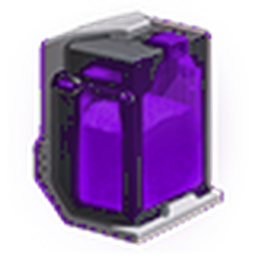
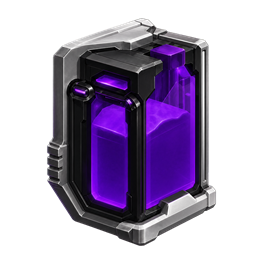
Release 0.1.1

diff --git a/src/Plugin.cs b/src/Plugin.cs
@@ -20,7 +20,7 @@ namespace ProliferatorMk4
     {
         public const string ModGuid = "com.komonad.dsp.proliferatormk4";
         public const string ModName = "Proliferator Mk.IV";
-        public const string Version = "0.1.0";
+        public const string Version = "0.1.1";
 
         private const int DefaultItemProliferatorMk4 = 9441;
         private const int DefaultRecipeProliferatorMk4 = 9441;
@@ -425,10 +425,10 @@ namespace ProliferatorMk4
 
             IconToolNew.IconDesc iconDesc = new IconToolNew.IconDesc
             {
-                faceColor = new Color(0.30f, 0.08f, 0.46f, 1f),
-                sideColor = new Color(0.09f, 0.035f, 0.16f, 1f),
-                faceEmission = new Color(0.07f, 0.01f, 0.14f, 1f),
-                sideEmission = new Color(0.015f, 0f, 0.035f, 1f),
+                faceColor = new Color(0.56f, 0.17f, 0.70f, 1f),
+                sideColor = new Color(0.23f, 0.055f, 0.34f, 1f),
+                faceEmission = new Color(0.18f, 0.035f, 0.25f, 1f),
+                sideEmission = new Color(0.055f, 0.005f, 0.095f, 1f),
                 iconEmission = Color.clear,
                 metallic = 0.92f,
                 smoothness = 0.62f,
@@ -851,8 +851,8 @@ namespace ProliferatorMk4
         private static void RewriteMk4SpraycoaterVisualState(CargoTraffic traffic, AnimData[] animPool, SpraycoaterComponent spraycoater)
         {
             bool isMk4 = IsMk4Spraycoater(traffic, spraycoater);
-            bool isSpraying = IsSpraycoaterSpraying(animPool, spraycoater.entityId);
-            QueueSpraycoaterVisualModelUpdate(traffic?.factory, spraycoater.entityId, ResolveSpraycoaterVisualModelIndex(isMk4, isSpraying));
+            bool visualActive = IsSpraycoaterVisualActive(animPool, spraycoater.entityId);
+            QueueSpraycoaterVisualModelUpdate(traffic?.factory, spraycoater.entityId, ResolveSpraycoaterVisualModelIndex(isMk4, visualActive));
 
             if (!isMk4 ||
                 animPool == null ||
@@ -875,12 +875,17 @@ namespace ProliferatorMk4
                 (uint)(Mk4SpraycoaterVisualAbility * 10);
         }
 
-        private static bool IsSpraycoaterSpraying(AnimData[] animPool, int entityId)
+        private static bool IsSpraycoaterVisualActive(AnimData[] animPool, int entityId)
         {
-            return animPool != null &&
-                   entityId > 0 &&
-                   entityId < animPool.Length &&
-                   animPool[entityId].state % 1000u >= 100u;
+            if (animPool == null ||
+                entityId <= 0 ||
+                entityId >= animPool.Length)
+            {
+                return false;
+            }
+
+            uint state = animPool[entityId].state;
+            return state / 1000u > 0u || state % 1000u >= 100u;
         }
 
         private static int ResolveSpraycoaterVisualModelIndex(bool isMk4, bool isSpraying)

diff --git a/README.md b/README.md
@@ -1,35 +1,87 @@
 # ProliferatorMk4
 
-为《戴森球计划》添加增产剂 Mk.IV（四级增产剂），更昂贵，效果更强。
+为《戴森球计划》添加四级增产剂：增产剂 Mk.IV，允许以更高的成本对关键产线带来更多的增产或者加速效果。
 
-## 内容
+## 添加内容
 
-- 新物品：增产剂 Mk.IV。
-- 新科技：增产剂 Mk.IV。
-- 前置科技：亚微观量子纠缠、增产剂 Mk.III。
-- 科技消耗：五色矩阵各 1000。
-- 配方：2 增产剂 Mk.III + 1 奇异物质 -> 1 增产剂 Mk.IV。
-- 增产点数：8。
-- 基础喷涂次数：120。
+- 新物品：增产剂 Mk.IV，提供 120 次喷涂次数（自喷涂后 162 次），为货物添加到最高 8 点增产点数。
+- 新配方：`2 增产剂 Mk.III + 1 奇异物质 -> 1 增产剂 Mk.IV`。
+- 新科技：增产剂 Mk.IV（前置科技 亚微观量子纠缠、增产剂 Mk.III）。
+- 喷涂机支持四级增产剂，并显示对应的紫色罐体和喷涂效果。
+
+注意：
+
+- 增产剂 Mk.IV 及其配方会尝试在建筑页寻找空余位置，没有放置在物品页
+- 8 点增产点数效果沿用游戏内现有未使用数值：提供 35% 的增产效果或者 200% 的加速效果，带来额外 310% 的电力开销。
+
+## 兼容性
+
+目前尚未提供与 OrbitalRing 以及 GenesisBook 等大型 MOD 的兼容性支持。
+
+## 问题反馈
+
+如果遇到报错、显示异常、配方或科技没有出现，请在 [GitHub](https://github.com/komonad/ProliferatorMk4) 提交 issue，并附上：
+
+- 问题描述
+- 游戏版本
+- mod 版本
+- 已安装 mod 列表
+- `BepInEx/LogOutput.log`
+
+## Changelog
+
+### 0.1.1
+
+- 更新 Thunderstore 包图标，使用更清晰的透明背景图标。
+- 修复喷涂机动画。
+- 调整增产剂 Mk.IV 货物颜色，使显示更清晰。
+
+### 0.1.0
+
+- 添加增产剂 Mk.IV 物品、配方和科技。
+- 添加喷涂机对增产剂 Mk.IV 的支持。
+- 添加黑紫色喷涂机显示和货物显示。
 
 ## English
 
-Adds Proliferator Mk.IV to Dyson Sphere Program.
+Adds a fourth-tier proliferator to Dyson Sphere Program: Proliferator Mk.IV. It gives key production lines stronger extra product or speedup effects at a higher cost.
 
-Proliferator Mk.IV follows Proliferator Mk.III and Submicroscopic Quantum Entanglement, using Strange Matter to further compress the active ingredients of proliferators. It is a high-tier proliferator option for mid-late and endgame production lines.
+## Features
 
-## Dependencies
+- New item: Proliferator Mk.IV. It provides 120 spray uses, or 162 uses after being sprayed, and adds up to 8 proliferator points to cargo.
+- New recipe: `2 Proliferator Mk.III + 1 Strange Matter -> 1 Proliferator Mk.IV`.
+- New technology: Proliferator Mk.IV. Prerequisites: Submicroscopic Quantum Entanglement and Proliferator Mk.III.
+- Spray coaters can use Proliferator Mk.IV and display the matching purple tank and spray effect.
 
-- BepInEx 5.4.17
-- CommonAPI 1.6.5
-- LDBTool 3.0.3
+Notes:
 
-## Content
+- Proliferator Mk.IV and its recipe try to use free slots on the Buildings page. They are not placed on the item page.
+- The 8-point proliferator effect uses existing unused in-game values: 35% extra products or 200% speedup, with 310% additional power consumption.
 
-- New item: Proliferator Mk.IV.
-- New technology: Proliferator Mk.IV.
-- Prerequisite technologies: Submicroscopic Quantum Entanglement and Proliferator Mk.III.
-- Technology cost: 1000 of each of the five matrix colors.
-- Recipe: 2 Proliferator Mk.III + 1 Strange Matter -> 1 Proliferator Mk.IV.
-- Proliferator points: 8.
-- Base spray count: 120.
+## Compatibility
+
+Compatibility support for large overhaul mods such as OrbitalRing and GenesisBook is not currently provided.
+
+## Feedback
+
+If you run into errors, visual issues, or missing recipes/technologies, please open an issue on [GitHub](https://github.com/komonad/ProliferatorMk4) and include:
+
+- A description of the problem
+- Game version
+- Mod version
+- Installed mod list
+- `BepInEx/LogOutput.log`
+
+## Changelog
+
+### 0.1.1
+
+- Updated the Thunderstore package icon with a sharper transparent-background image.
+- Fixed the spray coater animation.
+- Adjusted the Proliferator Mk.IV cargo color for better visibility.
+
+### 0.1.0
+
+- Added the Proliferator Mk.IV item, recipe, and technology.
+- Added spray coater support for Proliferator Mk.IV.
+- Added black-purple spray coater and cargo visuals.
